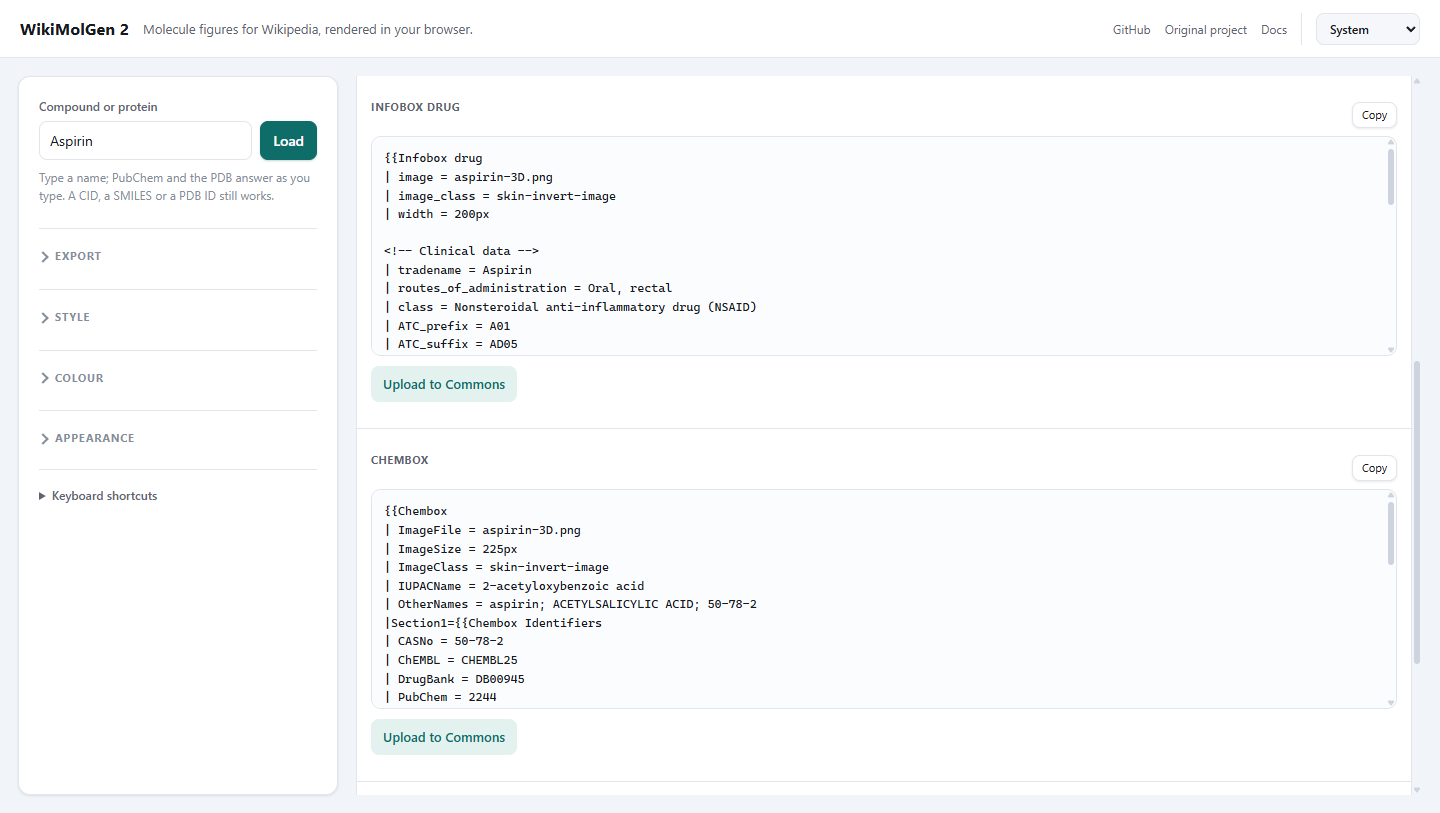
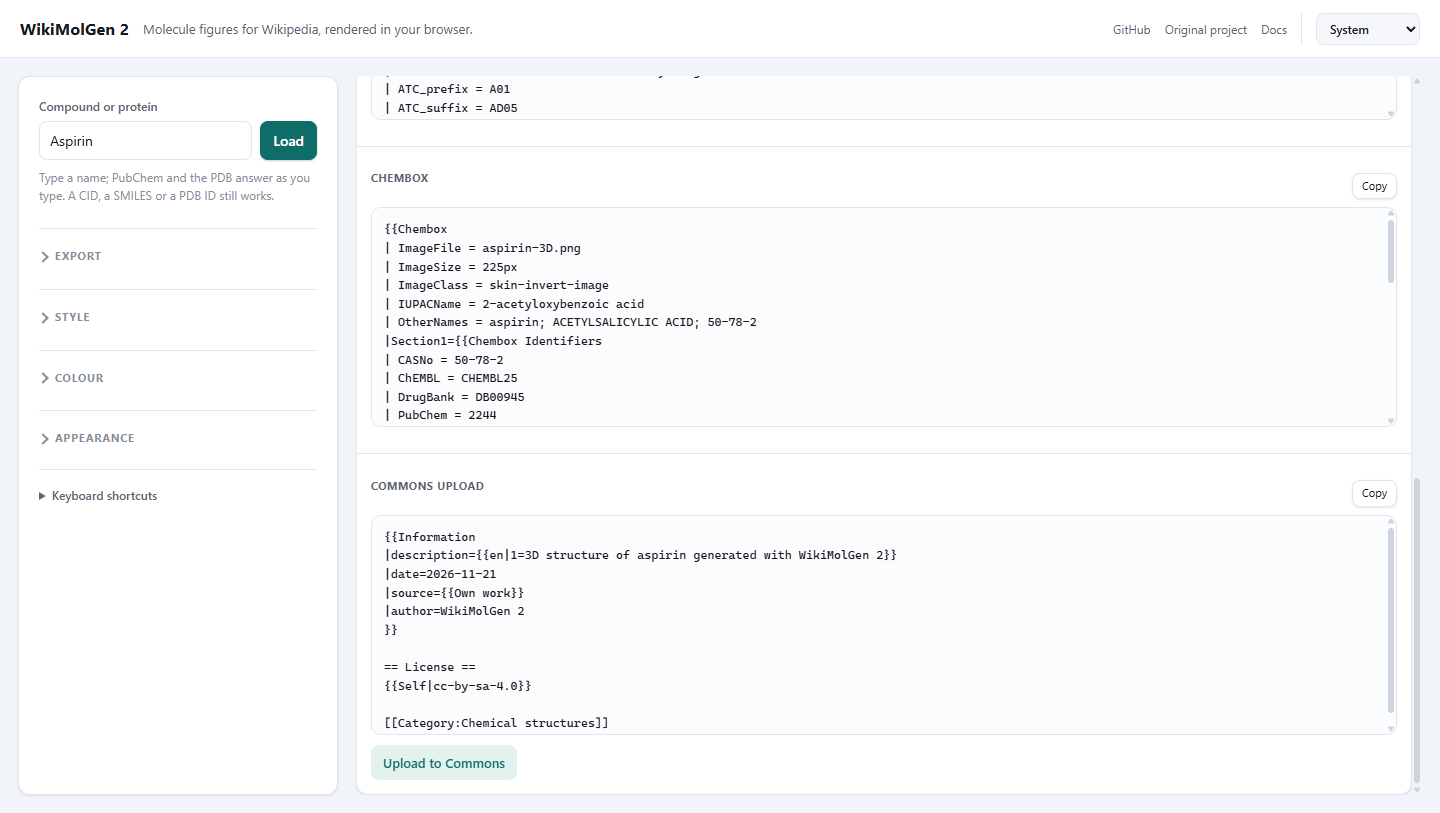
Keep the upload link only under the Commons text

diff --git a/web/src/main.ts b/web/src/main.ts
@@ -540,9 +540,7 @@ function refreshOutput(): void {
     dom.outputChembox.textContent = "";
     dom.outputCommons.textContent = "";
     dom.fileName.textContent = "—";
-    for (const link of [dom.uploadDrugbox, dom.uploadChembox, dom.uploadCommons]) {
-      link.hidden = true;
-    }
+    dom.uploadCommons.hidden = true;
     return;
   }
 
@@ -559,14 +557,9 @@ function refreshOutput(): void {
   const commons = commonsInformation(state.compoundJson, kind, AUTHOR, license, today);
   dom.outputCommons.textContent = commons;
 
-  // A compound gets the upload under each infobox; a protein has only the Commons block.
-  const href = commonsUploadUrl(fileName, commons, license);
-  for (const link of [dom.uploadDrugbox, dom.uploadChembox]) {
-    link.href = href;
-    link.hidden = protein;
-  }
-  dom.uploadCommons.href = href;
-  dom.uploadCommons.hidden = !protein;
+  // The upload action belongs to the Commons description, under the text it sends.
+  dom.uploadCommons.href = commonsUploadUrl(fileName, commons, license);
+  dom.uploadCommons.hidden = false;
 }
 
 // --- Small helpers -----------------------------------------------------------------

diff --git a/web/index.html b/web/index.html
@@ -354,9 +354,6 @@
               <button id="copy-drugbox" type="button" class="secondary">Copy</button>
             </div>
             <pre id="wikitext-drugbox" class="wikitext" tabindex="0">Load a compound to generate markup.</pre>
-            <a id="upload-drugbox" class="upload-link" href="#" target="_blank" rel="noreferrer" hidden>
-              Upload to Commons
-            </a>
           </section>
 
           <section id="block-chembox" class="output-block">
@@ -365,9 +362,6 @@
               <button id="copy-chembox" type="button" class="secondary">Copy</button>
             </div>
             <pre id="wikitext-chembox" class="wikitext" tabindex="0"></pre>
-            <a id="upload-chembox" class="upload-link" href="#" target="_blank" rel="noreferrer" hidden>
-              Upload to Commons
-            </a>
           </section>
 
           <section id="block-commons" class="output-block">

diff --git a/web/src/context.ts b/web/src/context.ts
@@ -143,8 +143,6 @@ export const dom = {
   outputCommons: required<HTMLElement>("wikitext-commons"),
   blockDrugbox: required<HTMLElement>("block-drugbox"),
   blockChembox: required<HTMLElement>("block-chembox"),
-  uploadDrugbox: required<HTMLAnchorElement>("upload-drugbox"),
-  uploadChembox: required<HTMLAnchorElement>("upload-chembox"),
   uploadCommons: required<HTMLAnchorElement>("upload-commons"),
 };
 

diff --git a/docs/SPEC.md b/docs/SPEC.md
@@ -55,7 +55,7 @@ reach; a load then scrolls the figure into view.
 | `{{Infobox drug}}` | Field names, section order and escaping as the template expects, including ATC, routes and legal status |
 | `{{Chembox}}` | Nested sections: identifiers, properties, pharmacology, hazards |
 | Commons | File name, `{{Information}}` plus licence block, pre-filled upload URL; the licence follows the structure kind |
-| Outputs | The drug infobox, the chembox and the Commons upload text sit stacked in one panel, in that order, each with a copy button. The two infoboxes carry an Upload to Commons link below their text; a protein shows the Commons text and its link only |
+| Outputs | The drug infobox, the chembox and the Commons upload text sit stacked in one panel, in that order, each with a copy button. The Commons block carries the Upload to Commons link under its text; a protein shows the Commons text only |
 | Keyboard | `Ctrl+Enter` load, `2`/`3` view, `E` export, `F` frame, `+`/`-` zoom, `/` focus, `?` help |
 | Theme | Light, Paper and Dark, plus System. The choice persists and applies before the first paint. The stage follows the theme tint |
 | Links | The top bar carries the repository, the original WikiMolGen project and the docs, then the theme picker. Below 640 px the links fold away |

diff --git a/README.md b/README.md
@@ -45,8 +45,8 @@ shows through. A Rust V2000 parser is the fallback if the RDKit module cannot lo
 
 ![WikiMolGen 2 rendering aspirin, with the download in the figure toolbar and the Commons markup below](docs/screenshot.png)
 
-The drug infobox, the chembox and the Commons upload text sit together below the figure.
-The two infoboxes carry an Upload to Commons action; a protein shows the Commons text only:
+The drug infobox, the chembox and the Commons upload text sit together below the figure,
+each with its own copy button. The Commons block carries the Upload to Commons action:
 
 ![The stacked output panel](docs/output-panel.png)
 
